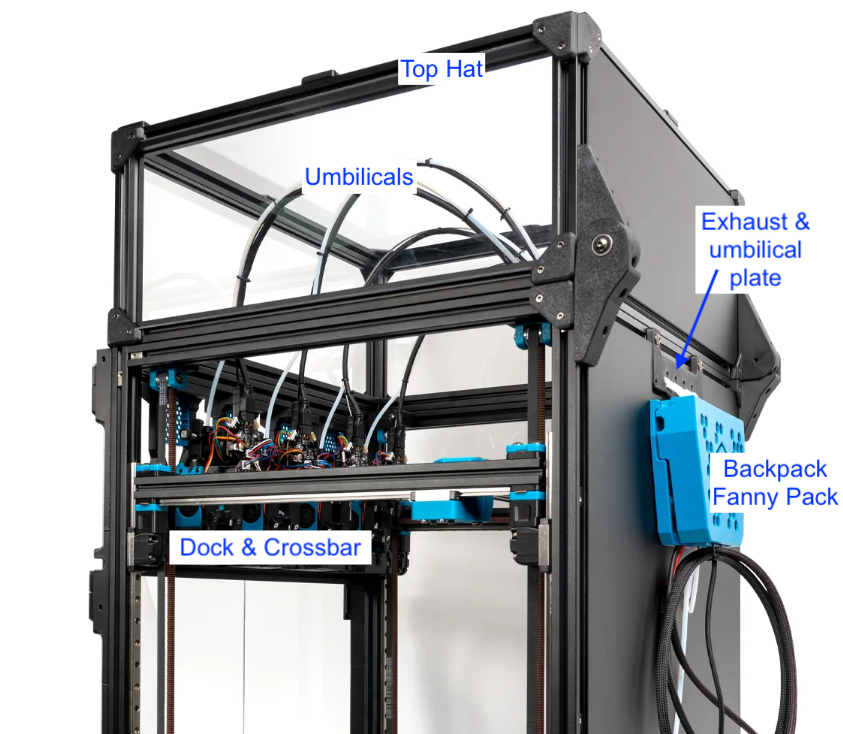
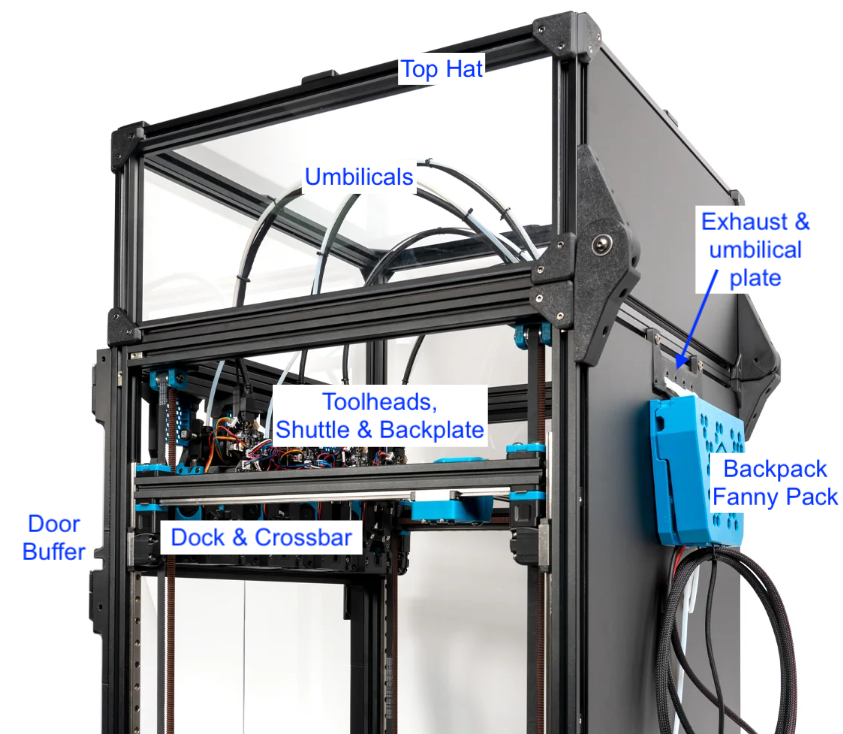
Added pictures for endstops Added more annotations on general stealthchanger image

Changed region(s): [[0.3084, 0.5095, 0.586, 0.6294], [0.1851, 0.6894, 0.4626, 0.7793], [0.0308, 0.6894, 0.0925, 0.7793]]

diff --git a/docs/Endstops.md b/docs/Endstops.md
@@ -6,7 +6,7 @@ parent: StealthChanger Components
 <!-- Use the page layout at TOC.md:  https://github.com/sdylewski/StealthChanger/blob/main/docs/TOC.md -->
 <!-- This page has the liquid html rendering image off so the gcode renders properly -->
 
-# What 
+# XY Endstops
 
 The gantry needs to home its X and Y position, preferably with repeated accuracy as the X,Y position becomes important to pick up and drop off toolheads properly.
 
@@ -16,16 +16,34 @@ The X endstop on a toolhead will no longer work so that needs to be relocated or
 
 ## Sensorless homing
 
-Most common, easiest, just fiddly to get right, especially with TMC5160 drivers.
-https://docs.vorondesign.com/tuning/sensorless.html
+Most common, easiest, just fiddly to get right, especially with TMC5160 drivers. It's easier to get X working first, and use a microswitch for Y.
+
+[https://docs.vorondesign.com/tuning/sensorless.html](https://docs.vorondesign.com/tuning/sensorless.html)
 
 
 ## Relocation mod
 This moves X and Y endstops to the motor mount, there are a couple of options:
+(show pictures of each?)
 
-* [DraftShift Design](https://github.com/DraftShift/StealthChanger/tree/main/STLs/Endstops)
-* [Endstop by Vin-Y](https://github.com/sdylewski/StealthChanger/tree/main/UserMods/VIN-y/Endstops)
-* [Endstop mounts for printed and CNC shuttle](https://github.com/DraftShift/StealthChanger/tree/main/UserMods/N3MI-DG/Endstop_Mounts)
+### [Endstop mounts for printed and CNC shuttle (N3MI)](https://github.com/DraftShift/StealthChanger/tree/main/UserMods/N3MI-DG/Endstop_Mounts)
+[<img src="media/Probes/N3MI_XY_endstop_switch.jpg" width="200">]
+(https://github.com/DraftShift/StealthChanger/tree/main/UserMods/N3MI-DG/Endstop_Mounts)
+
+Relocates the X and Y endstop switches to the A motor
+
+### [DraftShift Design](https://github.com/DraftShift/StealthChanger/tree/main/STLs/Endstops)
+[<img src="media/Probes/DraftShift_a_motor_switches.jpg" width="200">]
+(https://github.com/DraftShift/StealthChanger/tree/main/STLs/Endstops)
+
+Relocates the X and Y endstop switches to the A motor 
+
+### [Endstop by Vin-Y](https://github.com/DraftShift/StealthChanger/tree/main/UserMods/VIN-y/Endstops)
+[<img src="media/Probes/Endstop_assembly_Vin-Y.jpg" width="200">]
+(https://github.com/DraftShift/StealthChanger/tree/main/UserMods/VIN-y/Endstops)
+
+Relocates the X and Y endstop switches to the A motor
+
+
   
 ## Endstop repeatability macro 
 By @Contomo

diff --git a/docs/CableManagement/Umbilicals.md b/docs/CableManagement/Umbilicals.md
@@ -17,7 +17,9 @@ While piano wire was initially recommended to stiffen the umbilicals and keep it
 Depending on your toolhead you want to find a cable relief for the umbilical to clamp to. You can terminate the spring steel at the toolhead, resulting in a stiffer arc, but induce more force on the toolhead which might push the nozzle forward or backwards. If you terminate the spring steel above the toolhead the force won't be on the toolhead itself but it might also not be stiff enough to prevent sway.
 
 ## Toolhead cable attachment
-// TODO list common toolhead cable relief here
+Most toolhead boards will have an area to zip-tie your cable to. 
+ 
+* [Umbilical Sock for NiteHawks36](https://github.com/DraftShift/StealthChanger/tree/main/UserMods/Nic335/NH36Sock)
 
 
 ## Length of the umbilical
@@ -34,9 +36,7 @@ See Cable management for how to manage them at the back of the printer and conne
 ## Mods
 
 * [N3MI 4-port Exhaust Plate for Stealthchanger with 7 segment LED](https://www.printables.com/model/1452047-n3mi-4-port-exhaust-plate-for-stealthchanger-with)
-  
-* [Umbilical Sock for NiteHawks36](https://github.com/DraftShift/StealthChanger/tree/main/UserMods/Nic335/NH36Sock)
-* [PCB mounts for SHT36 v1, SHT36 v2, SHT36 v3, Nitehawk v1, Nitehawk v2, EBB and CNC HGX Sherpa, Orbitor2 extruders](https://github.com/DraftShift/StealthChanger/tree/main/UserMods/TheSin-/PCB36_Mount)
+* (Recommended) [PCB mounts for SHT36 v1, SHT36 v2, SHT36 v3, Nitehawk v1, Nitehawk v2, EBB and CNC HGX Sherpa, Orbitor2 extruders](https://github.com/DraftShift/StealthChanger/tree/main/UserMods/TheSin-/PCB36_Mount)
 * [Orbiter V2 BTT EBB36 carrier](https://github.com/DraftShift/StealthChanger/blob/main/UserMods/onsimon/README.md)
 * [EBB36 and Galileo 2 Standalone User Mod](https://github.com/DraftShift/StealthChanger/tree/main/UserMods/seenit783)
 * [Pcb36 mount for ProtoXtruder 2.0](https://www.printables.com/model/1460801-ebb36-mount-protoextruder2stealthchanger) ([discord link](https://discord.com/channels/1226846451028725821/1373573718017708114))

diff --git a/docs/index.md b/docs/index.md
@@ -52,7 +52,7 @@ The modular dock mounts to the top front of your printer to hold/dock the toolhe
 * [Crossbar (optional)](Docks.md)
 * [Door buffer (optional)](Docks.md) Needed if mounting crossbar to front of frame.  
   
-## [Electronics & Cable Management]()
+## [Electronics & Cable Management](CableManagement/CableManagement.md)
 <img src="media/CableManagement/wire_management.jpg" width="180" />
 
 Lots of toolheads mean lots of extra wires and filament that needs to be managed properly. With the umbilicals going to the exhaust port there are several options to connect them and to clean up the bundle with a "backpack" mounted on the back of the printer.
@@ -91,8 +91,9 @@ Klipper needs to be toolchanger aware with added code.
 # Building
 This is a challenging build/conversion, even for existing experienced Voron owners. Expect it to take a while, to re-print things frequently, and have to order random parts that you forgot the first time. 
 
-### [Vendors and Kits](Building/Building.md)
 ### [Checklist](Building/Checklist.md)
+### [Vendors and Kits](Building/Vendors-and-Kits.md)
+### [Bill of Materials](Building/Bill-of-Materials.md)
 ### [Printing](Building/Printing.md)
 ### [Cost calculator](https://docs.google.com/spreadsheets/d/1cjlZ4xi84sUbo09nV3CDkOrLjz3leInTZ9sxwSzPscE)
 
@@ -101,10 +102,9 @@ MikeyMike created an [approximate cost calculator](https://docs.google.com/sprea
 
 # [Support](Support/Support.md)
 
-* [Contributing & Donating](Support/Contributing-and-Donating.md)
-* [Serials](Support/Serials.md)
-* [Team & Credits](Support/Team-and-Credits.md)
-* What to tell your partner 
-
+### [Contributing & Donating](Support/Contributing-and-Donating.md)
+### [Serials](Support/Serials.md)
+### [Team & Credits](Support/Team-and-Credits.md)
+### TBD: How to convince your partner to go along with this project.
 
 

diff --git a/docs/CableManagement/CableManagement.md b/docs/CableManagement/CableManagement.md
@@ -18,8 +18,8 @@ Lots of toolheads mean lots of extra wires and filament that needs to be managed
 
 # FAQ
 
-### I'm getting a lot of TTCs, what gives
-There are several possible reasons for Timer Too Close errors from Klipper:
+### I'm getting a lot of "Timer Too Close" errors, what gives?
+There are several possible reasons for Timer Too Close (TTC) errors from Klipper:
 
 1. Your host is doing too much work: **CPU load is high** and Klipper can't process messages in time. Make sure you don't run too many things, assign Klipper to a separate core and run the host with the performance governor so CPU doesn't scale down in speed. Also make sure your host isn't overheating, the CPU throttles if it does.
 
@@ -35,7 +35,7 @@ LED effects will greatly increase the number of messages the CAN bus has to proc
 Make sure you have 60ohms (if possible) between CAN high and CAN low, any less and noise might muddy up the signals, causing retransmits and potentially not having messages processed in time. Have only 2 termination resistors on the bus (unless you have SB2209s which might need more). See [CAN termination layout and common issues](../CableManagement/ElectricalDistribution.md#can-termination-layout-and-common-issues).
   
 6. You've angered the 3d printer gods:
-Try praying?
+Try praying or sacrifice an Ender3 in the parking lot.
 
 
 

diff --git a/docs/Support/Support.md b/docs/Support/Support.md
@@ -17,6 +17,7 @@ Also, see the FAQ at the bottom of individual topics throughout this web page.
 
 ## User Logs
 * [Drakara has some great notes](https://github.com/drake7707/Drakarah3DPrinter/blob/main/README.md) from their build
+* [Cergs How to StealthChanger](https://github.com/EasterWorks/Cergs-Stealthchanger/tree/main) 
 
 ## What to tell your partner 
 ... about why they haven't come out of your work area in a month.

diff --git a/docs/Toolheads/Anthead.md b/docs/Toolheads/Anthead.md
@@ -14,7 +14,8 @@ parent: Toolheads
 * Default cowl and dock has built-in magnet holes for better docking
 
 ## References
-[Anthead reference page](https://github.com/PrintersForAnts/AntHead)
+* [Anthead reference page](https://github.com/PrintersForAnts/AntHead)
+* [N3MI's build guide for Anthead](https://github.com/N3MI-DG/sc-guides/tree/main/Anthead)
 
 
 ## Backplate

diff --git a/README.md b/README.md
@@ -1,1 +1,2 @@
-Documentation available here -->  [https://sdylewski.github.io/StealthChanger/](https://sdylewski.github.io/StealthChanger/)
+#[Documentation available here ](docs/index.md)
+
